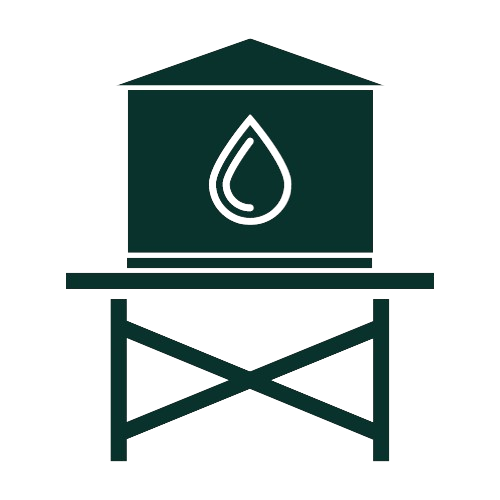
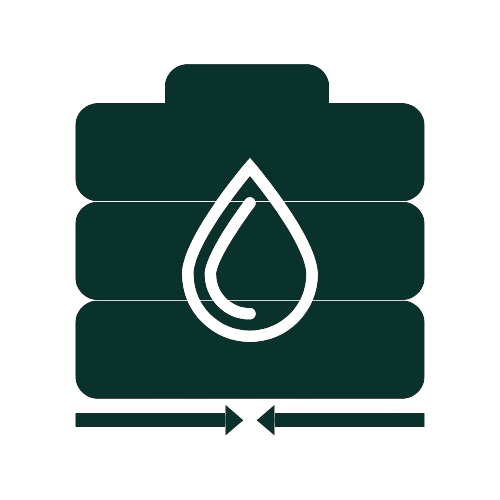
Update Monitor

Changed region(s): [[0.12, 0.06, 0.87, 0.93]]

diff --git a/src/screen/tandon_part/monitoring/monitoring_screen.js b/src/screen/tandon_part/monitoring/monitoring_screen.js
@@ -19,59 +19,108 @@ const MonitoringScreenTandon = (props) => {
     const rasioA = props.data.rasioA
     const rasioB = props.data.rasioB
     const rasioAir = props.data.rasioAir
-    const status = props.data.status
+    const status = props.data.statu
 
     return (
         <View style={{ height: '70%', width: '100%' }}>
             <ScrollView>
-
                 <View style={styles.container}>
                     <View style={styles.cardTandon}>
-                        {(status == "Kosong" || status == "Ada Isinya") ? (
-                            <Text style={[
-                                stylesGlobal.primer,
-                                stylesGlobal.body2,
-
-                            ]}>
-                                Tandon saat ini sedang {status}
-                            </Text>
-                        ) : (
-                            <Text style={[
-                                stylesGlobal.primer,
-                                stylesGlobal.body2,
-
-                            ]}>
-                                Sedang Meracik
-                            </Text>
-                        )
-                        }
-                        
-                        <View style={styles.icon}>
-                            <Image style={styles.img}
-                                source={require('./waterTank.png')}
-                            />
-                        </View>
-                        {isOnline ? (
-                            <Text style={[
-                                stylesGlobal.secondary,
-                                stylesGlobal.header3,
-
-                            ]}>
-                                Online
-                            </Text>)
-                            : (
+                        {(status == "Ada Isinya") ? (
+                            <View style={styles.icon}>
+                                <Image style={styles.img}
+                                    source={require('./waterTank.png')}
+                                />
                                 <Text style={[
-                                    stylesGlobal.error,
+                                    stylesGlobal.primer,
                                     stylesGlobal.header3,
 
                                 ]}>
-                                    Offline
+                                    Tandon berisi
                                 </Text>
+                            </View>
+                        ) : (status === "Kosong") ? (
+                            <View style={styles.icon}>
+                                <Image
+                                    style={styles.img}
+                                    source={require('./waterTank_Empty.png')}
+                                />
+                                <Text style={[
+                                    stylesGlobal.primer,
+                                    stylesGlobal.header3,
+                                ]}>
+                                    Tandon Kosong
+                                </Text>
+                            </View>)
+                            : (
+                                <View style={styles.icon}>
+                                    <Image
+                                        style={styles.img}
+                                        source={require('./waterTank_Load.png')}
+                                    />
+                                    <ActivityIndicator size="large" style={styles.activityIndicator} />
+                                    <Text style={[
+                                        stylesGlobal.primer,
+                                        stylesGlobal.header3,
+
+                                    ]}>
+                                        Sedang Meracik...
+                                    </Text>
+                                </View>
                             )}
+                    </View>
 
+                    <View style={styles.cardSensor}>
+                        <View style={styles.status}>
+                            {isOnline ? (
+                                <Text>
+                                    <Text style={[
+                                        stylesGlobal.header3,
+                                        stylesGlobal.primer, // Apply stylesGlobal.primer1 for "Status: "
+                                    ]}>
+                                        Status : 
+                                    </Text>
+                                    <Text style={[
+                                        stylesGlobal.secondary,
+                                        stylesGlobal.header3
+                                    ]}>
+                                        Online
+                                    </Text>
+                                </Text>)
+                                : (
+                                    <Text>
+                                    <Text style={[
+                                        stylesGlobal.header3,
+                                        stylesGlobal.primer, // Apply stylesGlobal.primer1 for "Status: "
+                                    ]}>
+                                        Status :
+                                    </Text>
+                                    <Text style={[
+                                        stylesGlobal.error,
+                                        stylesGlobal.header3
+                                    ]}>
+                                        Offline
+                                    </Text>
+                                </Text>
+                                )}
+                        </View>
+                        <Text style={[
+                            stylesGlobal.primer,
+                            stylesGlobal.body1,
 
+                        ]}> PPM      : 1200</Text>
 
+                        <Text style={[
+                            stylesGlobal.primer,
+                            stylesGlobal.body1,
 
+                        ]}> PH         : 7</Text>
+
+                        <Text style={[
+                            stylesGlobal.primer,
+                            stylesGlobal.body1,
+
+                        ]}> Suhu    : 30</Text>
                     </View>
 
                     <View style={styles.cardFormula}>
@@ -89,8 +138,8 @@ const MonitoringScreenTandon = (props) => {
                         </Text>
                     </View>
                 </View>
-            </ScrollView>
-        </View>
+            </ScrollView >
+        </View >
 
     )
 };

diff --git a/src/screen/tandon_part/monitoring/monitoring_style.js b/src/screen/tandon_part/monitoring/monitoring_style.js
@@ -10,11 +10,12 @@ const styles = StyleSheet.create({
         // marginVertical: 20,
         flexDirection: 'row',
         justifyContent: 'space-between',
-        flexWrap: 'wrap'
+        flexWrap: 'wrap',
+
     },
     cardTandon: {
-        width: '100%',
-        height: 310,
+        width: '60%',
+        height: 200,
         backgroundColor: '#ffff',
         borderRadius: 10,
         borderColor: '#171717',
@@ -25,11 +26,23 @@ const styles = StyleSheet.create({
         padding: 10,
         display: 'flex',
         flexDirection: 'column',
-        alignItems:'center'
+        alignItems:'center',
+        marginRight: 5,
+    },
+    cardSensor: {
+        width: '38%',
+        height: 200,
+        backgroundColor: '#ffff',
+        borderRadius: 10,
+        borderColor: '#171717',
+        shadowOpacity: 1,
+        elevation: 1,
+        shadowRadius: 1,
+        padding: 5,
     },
     cardFormula: {
         width: '100%',
-        height: 80,
+        height: 70,
         backgroundColor: '#ffff',
         borderRadius: 10,
         borderColor: '#171717',
@@ -42,12 +55,23 @@ const styles = StyleSheet.create({
         flexDirection: 'column',
         alignItems:'center'
     },
+    status:{
+        padding: 4,
+    },
     img: {
+        marginBottom: -10,
         width: 200,
-        height: 200,
+        height: 170,
+    },
+    activityIndicator: {
+        position: 'absolute',
+        top: '38%',
+        left: '48%',
     },
     icon:{
+        alignItems: 'center',
     }
+    
 
 });
 
